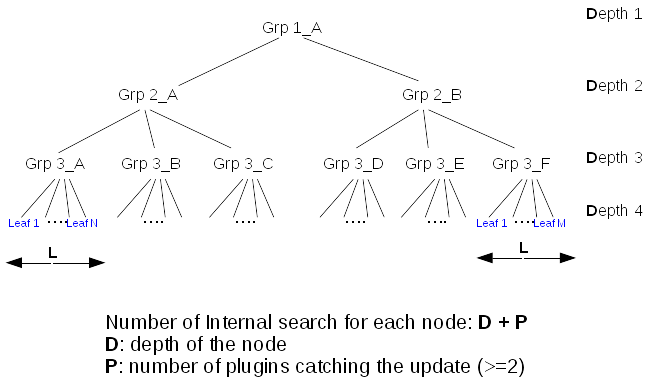
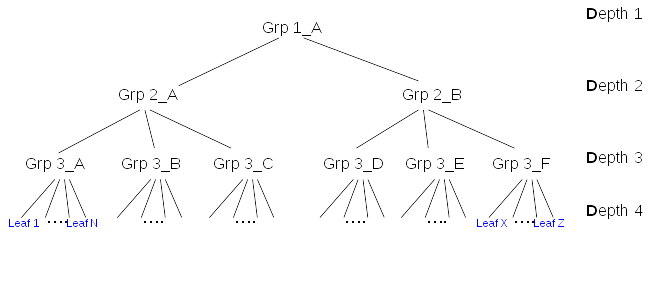
memberof-scalability type of trees

diff --git a/docs/389ds/design/memberof-scalability.md b/docs/389ds/design/memberof-scalability.md
@@ -9,7 +9,7 @@ title: "MemberOf Scalability"
 
 ## Overview
 
-MemberOf plugin manages the values of LDAP attribute **memberOf**. When updating a group, it does two actions:
+MemberOf plugin manages the values of LDAP attribute **memberOf** that provided directed link inside an acyclic graph. When updating a group, it does two actions:
 
 -   Lookup **down** in the groups tree to determine the list of entries (leaf or groups) impacted by the operation
 -   For each impacted entry, lookups **up** in the groups tree to determine which groups the entry belongs to, and finally update the entry (**fixup**)
@@ -31,6 +31,18 @@ An administrator needs to provision many entries (leaf or groups) within a fixed
 
 ## Design
 
+### Simplifications
+
+The graph of membership can be very complex. For simplification, this document will evaluate the impact of membership update on a trees with same leaf depth:
+Tree with one uniq path to each leaf
+![Membership tree](../../../images/memberof_image1.png "uniq path to leaf")
+
+Tree with possible multiple path to each leaf
+![Membership tree](../../../images/memberof_type_multiple_path_to_leaf.png "multiple paths to leaf")
+
+Tree with multiple path to intermediare nodes
+![Membership tree](../../../images/memberof_type_multiple_path_to_node.png "multiple paths to nodes")
+
 ### Cost of memberof update
 
 Tests done with [Nested groups provisioning](http://www.freeipa.org/page/V4/Performance_Improvements#Memberof_plugin) shown that **by far the main contributor** was the [Number](http://www.freeipa.org/page/V4/Performance_Improvements#Small_DB_.2810K_entries.29) of internal searches.
@@ -47,52 +59,74 @@ The figure above shows a membership tree. At the bottom of the tree **leafs** ar
 - Let **A** the total number of entries in a membership tree (all *Engineering*)
 - Let **D** the depth of a given node in the membership tree
 - Let **P** the number of plugins that catch group updates
-- Let **G** the number of time each entry appears in a membership tree (groups it is memberof)
+- Let **G** the number of groups a given entry is direct member
+- Let **I** the number of intermediare nodes (Depth 1,2,3) a given entry is memberof
 
 #### Look down the impacted members
 
 When a group is updated, the txn postop callback searches for all entries being direct and indirect member of that group. This is done by a **single** internal search of each entry found in the membership tree. The lookup is quite optimal (it retrieves/process all the membership attributes in a single earch) but we can think to an improvement:
 
-An entry that appears in the tree is lookup using an internal search. An entry may appears several time in the tree (an create several int_search)
+An entry that appears in the tree is lookup using an internal search. An entry may appears several time in the tree (and triggers several int_search for itself)
 
 - being member of several sub groups
 - being listed in several membership attribute
 
 The ticket [48861](https://fedorahosted.org/389/ticket/48861) was opened for this improvement. We can imagine to make sure that an entry is **listed once** during *Look down* (preferably) or **Fixed once** during *Look up*. This improvement has no impact if entries appears only once in the tree.
 
-The cost of Look down **(A - A/G)**. For example with A=600 and G=3 the cost is ~400. 
+The cost of Look down with [48861](https://fedorahosted.org/389/ticket/48861) being fixed is **(A - A/G)**. For example with A=600 and G=3 the cost is ~400. 
 
 The look down produces a list of **impacted members**
 
 
 #### Look up group membership of impacted members
 
-When a group is updated, for each **impacted members** it computes all the groups containing (direct or indirect) the member.
+When a group is updated, for each **impacted members** it computes all the groups containing (direct or indirect) the impacted member.
 
-##### case 1 - entries appears once in the tree
+##### case 1 - impacted members appear once in the tree
 
-Assuming that **G=1** (an entry appears only once in the membership tree), the cost of update is for *each* node is **D + P**.
+Assuming that **G=1** (an entry appears only once in the membership tree), the cost of update *each* node is **(I+1) + P**.
 
-For example using the above membership, assuming that each *leaf group* has *L=100* members, the update of this tree will be: **3642 internal searches**
+For example using the above membership tree, assuming that each *leaf group* has *L=100* members, the update of this tree will be: **3638 internal searches**
 
-- Depth 4: 6 *leaf groups => **6 * L * (D + P)** =  600 * (4 + 2) = **3600 internal searches**
-- Depth 3: **6 * (D + P)** = 6 * (3 + 2) = **30 internal searches**
-- Depth 2: **2 * (D + P)** = 2 * (2 + 2) = **8 internal searches**
-- Depth 1: **1 * (D + P)** = 1 * (1 + 3) = **4 internal searches**
+- Depth 4: 6 *leaf groups* => **6 * L * ((I+1) + P)** =  600 * (4 + 2) = **3600 internal searches**
+- Depth 3: **6 * ((I+1) + P)** = 6 * (3 + 2) = **30 internal searches**
+- Depth 2: **2 * ((I+1) + P)** = 2 * (2 + 2) = **8 internal searches**
 
-This lookup can be improved because there are several lookup of the same **internal nodes** in the tree
+The way this lookup is done can be improved. In fact, there are several lookup of the same **internal nodes** in the tree
 
 ![Membership tree](../../../images/memberof_lookup_1.png "Lookup of internal nodes")
 
 In the figure above, we can see the *look up* for Leaf_A triggers internal searches for Leaf_A, Grp_3_A, Grp_2_A and Grp_1_A. Then
 *look up* for Leaf_B triggers triggers internal searches for Leaf_A, Grp_3_C, Grp_2_A and Grp_1_A. So 2 internal searches out of 8 are useless.
 
-Taking the same cost of **3642 internal searches** in the previous example, we can measure that the half (**~1800**) are useless
+Taking the same cost of **3638 internal searches** in the previous example, we can measure that the half (**~1800**) are useless
 
-- Grp_1_A is look up **609 times** (600 for Depth4, 6 for Depth3 and 2 for Depth2, 1 for Depth1)
+- Grp_1_A is look up **609 times** 
+  - 600 times for each Depth4 leafs
+  - 6 times for Depth3 nodes
+  - 2 times for Depth2 nodes
+  - 1 for Depth1 node
 - Grp_2_A and Grp_2_B are look up **304 times each**
 - Grp_3_A..Grp_3_F are look up **101 times each**
 
+
+##### case 2 - impacted members appear several time in the tree
+
+Assuming that **G > 1** (an entry is direct member of N *leaf group*). the cost of update *each* node is **(I + 1) + P**.
+
+For example using the above membership tree, Assuming:
+
+- *G=6* : each leaf is member of all *leaf groups*
+- *L=100* : *leaf groups* have 100 direct members, the update of this tree will be: **7238 internal searches**
+
+- Depth 4: 6 *leaf groups* => **6 * L * ((I + 1) + P)** =  600 * ((9 + 1) + 2) = **7200 internal searches**
+- Depth 3: **6 * ((I + 1) + P)** = 6 * (3 + 2) = **30 internal searches**
+- Depth 2: **2 * ((I + 1) + P)** = 2 * (2 + 2) = **8 internal searches**
+
+
+![Membership tree](../../../images/memberof_lookup_2.png "Lookup of internal nodes 2")
+
+In the figure above, we can see the *look up* for Leaf_A triggers internal searches for Leaf_A, Grp_3_A, Grp_2_A and Grp_1_A but also Grp_3_C, Grp_2_A and Grp_1_A. So 2 internal searches out of 7 are useless. In addition Leaf_A is found twice by [look down](http://www.port389.org/docs/389ds/design/memberof-scalability.html#look-down-the-impacted-members) so it triggers two lookup up, the second one being useless because the Leaf_A was already fixup. That is 9 (2+7) internal searches out of 14 that are useless.
 
 For example for the following membership tree with **L=100**, then **A=(6*L)+9=609**
 The problem is that updating 
